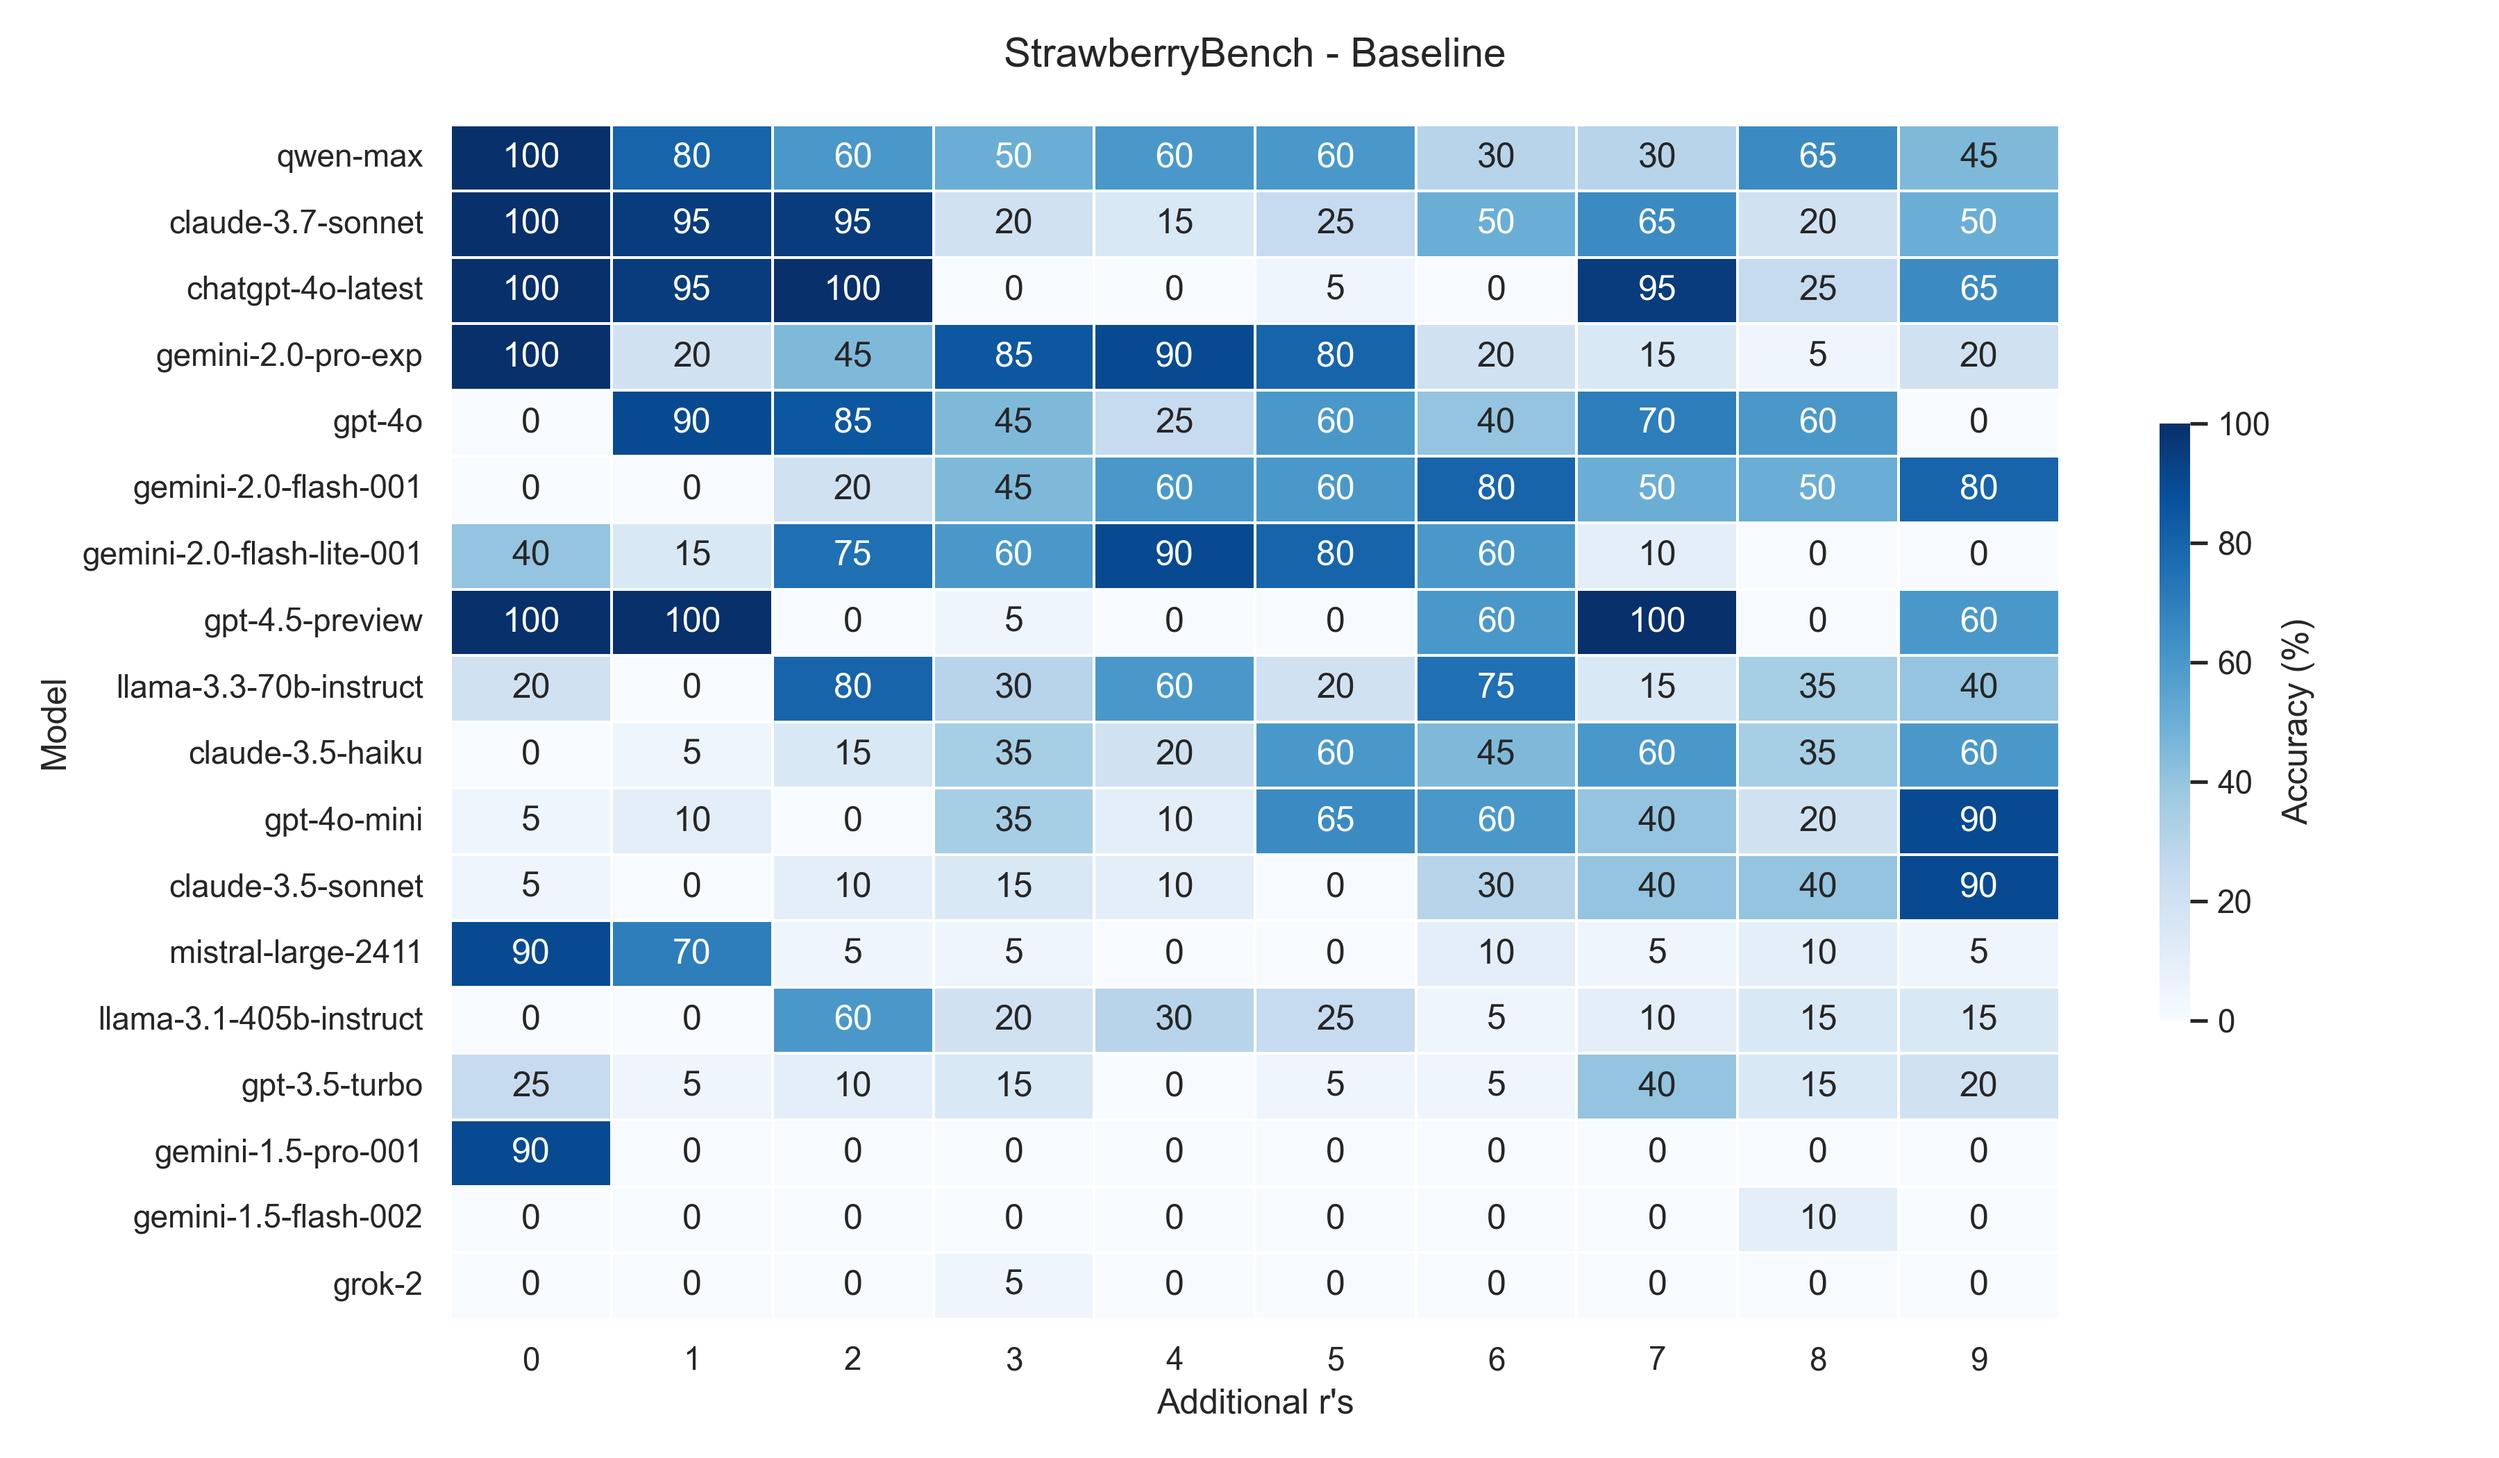
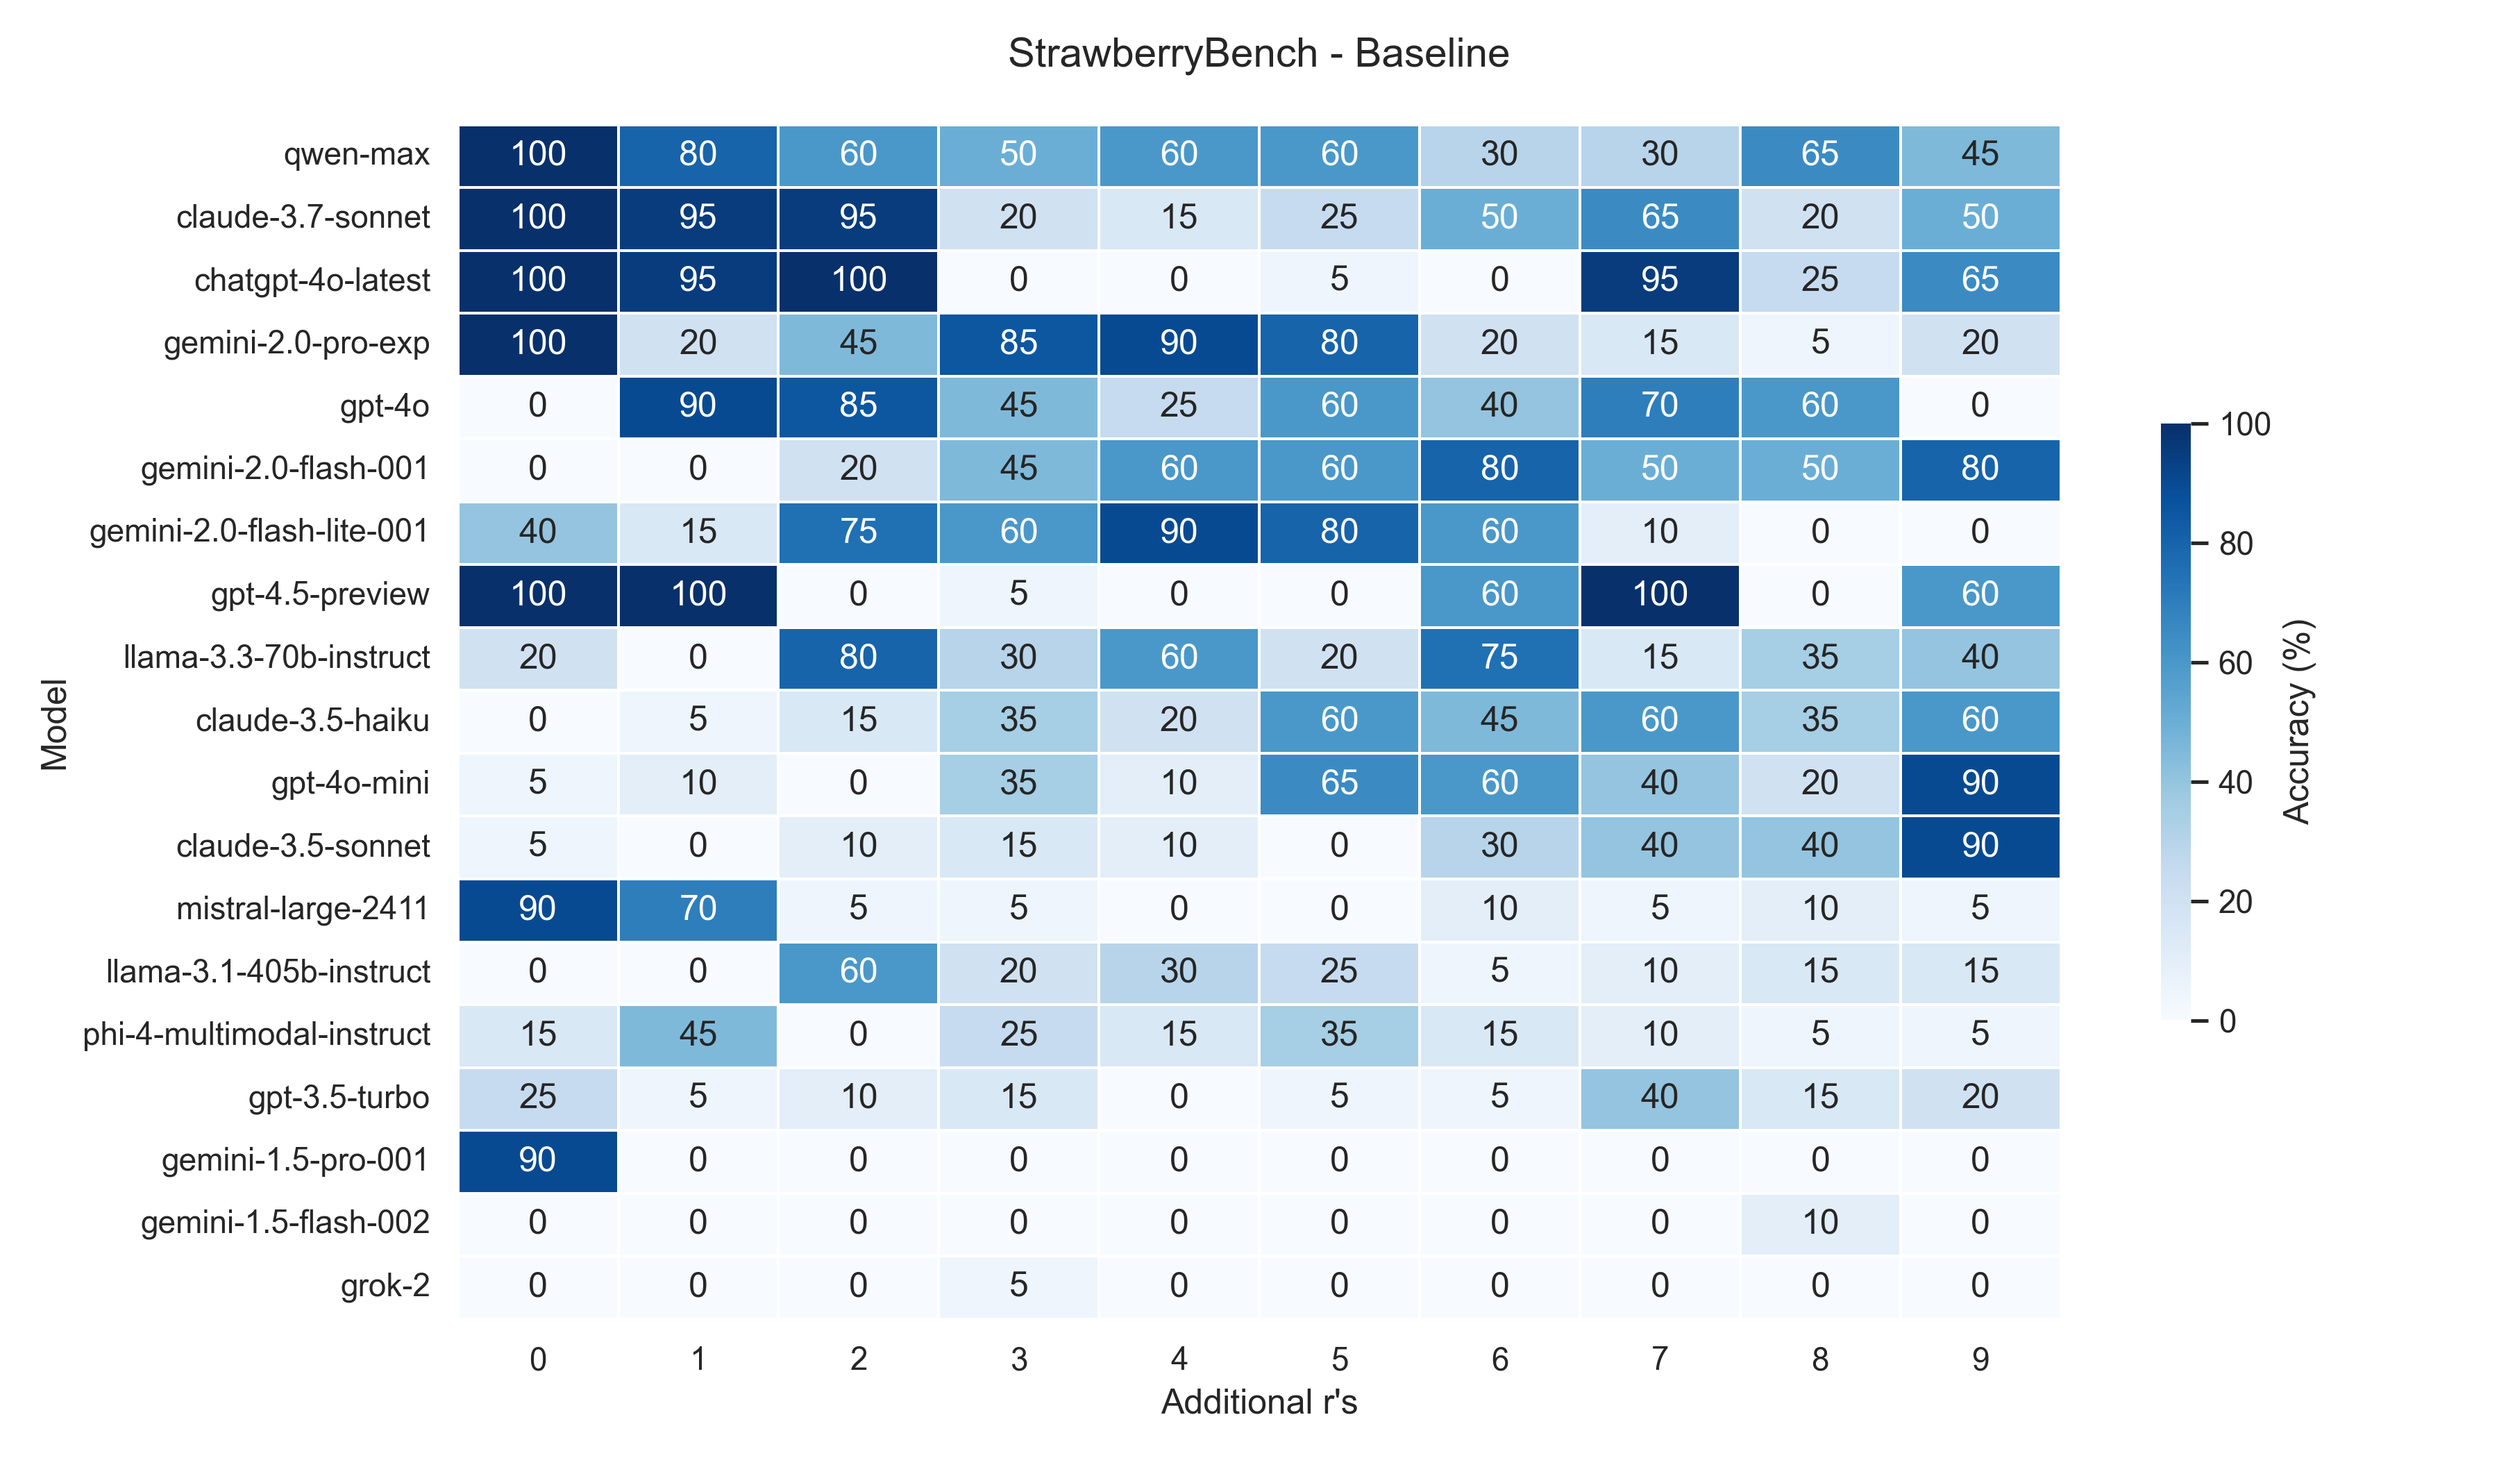
Add microsoft/phi-4-multimodal-instruct

diff --git a/config.py b/config.py
@@ -9,6 +9,7 @@ MODELS = [
     # { "name": "google/gemini-2.0-pro-exp-02-05", "client": "google_vertex", "type": "nocot", "settings": { "rate_limit": 10 } },
     # { "name": "meta-llama/llama-3.1-405b-instruct", "client": "openrouter", "type": "nocot" },
     # { "name": "meta-llama/llama-3.3-70b-instruct", "client": "openrouter", "type": "nocot" },
+    # { "name": "microsoft/phi-4-multimodal-instruct", "client": "openrouter", "type": "nocot" },
     # { "name": "mistralai/mistral-large-2411", "client": "openrouter", "type": "nocot" },
     # { "name": "openai/chatgpt-4o-latest", "client": "openai", "type": "nocot" },
     # { "name": "openai/gpt-3.5-turbo", "client": "openai", "type": "nocot" },
@@ -28,6 +29,7 @@ MODELS = [
     # { "name": "google/gemini-2.0-pro-exp-02-05", "client": "google_vertex", "type": "cot", "settings": { "rate_limit": 10 } },
     # { "name": "meta-llama/llama-3.1-405b-instruct", "client": "openrouter", "type": "cot" },
     # { "name": "meta-llama/llama-3.3-70b-instruct", "client": "openrouter", "type": "cot" },
+    # { "name": "microsoft/phi-4-multimodal-instruct", "client": "openrouter", "type": "cot" },
     # { "name": "mistralai/mistral-large-2411", "client": "openrouter", "type": "cot" },
     # { "name": "openai/chatgpt-4o-latest", "client": "openai", "type": "cot" },
     # { "name": "openai/gpt-3.5-turbo", "client": "openai", "type": "cot" },
